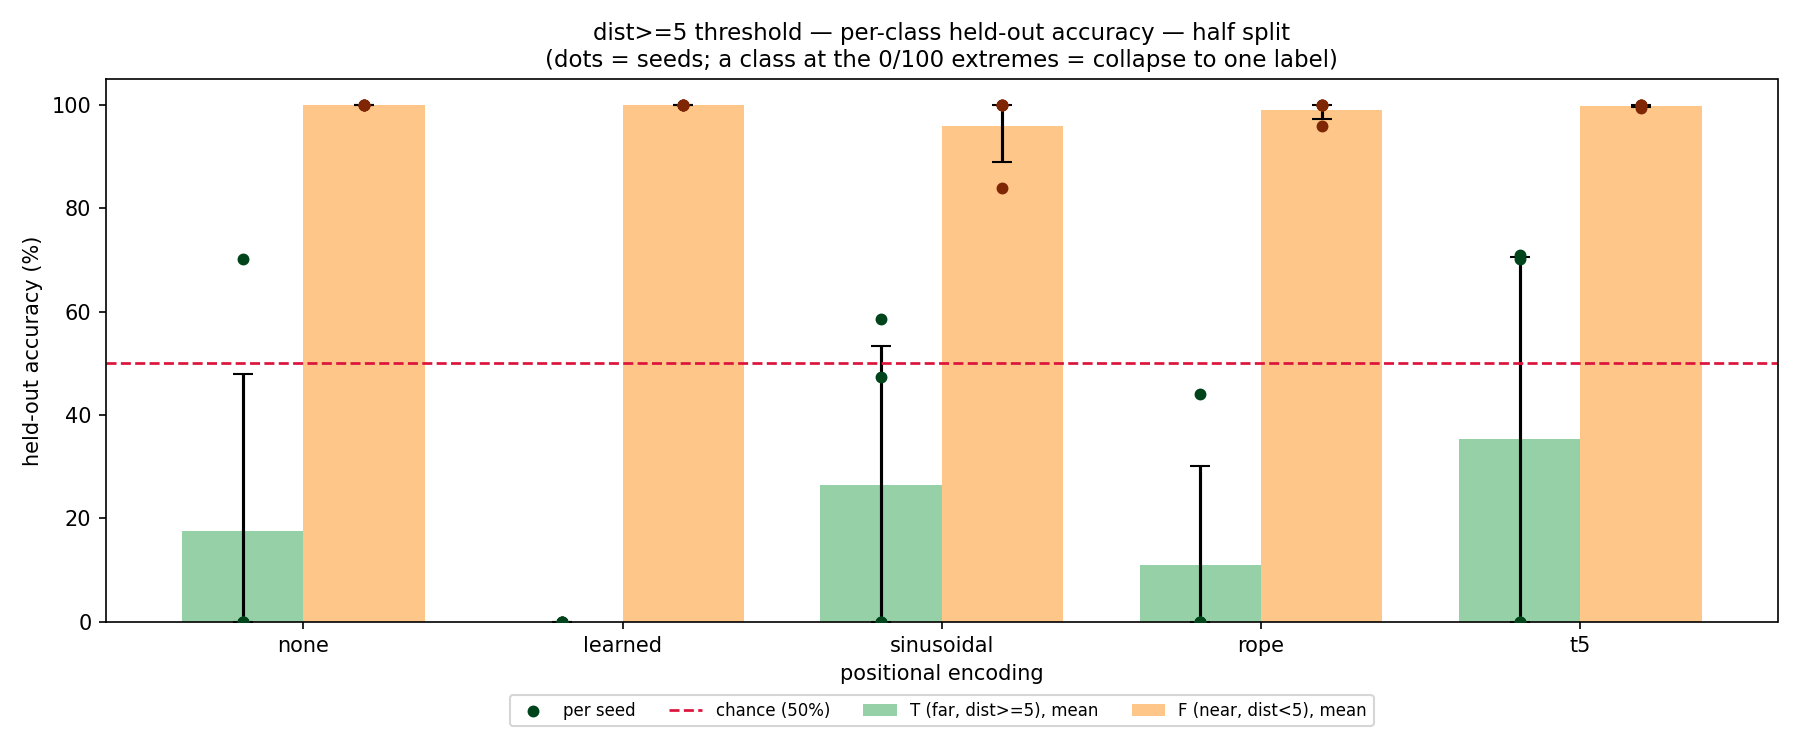
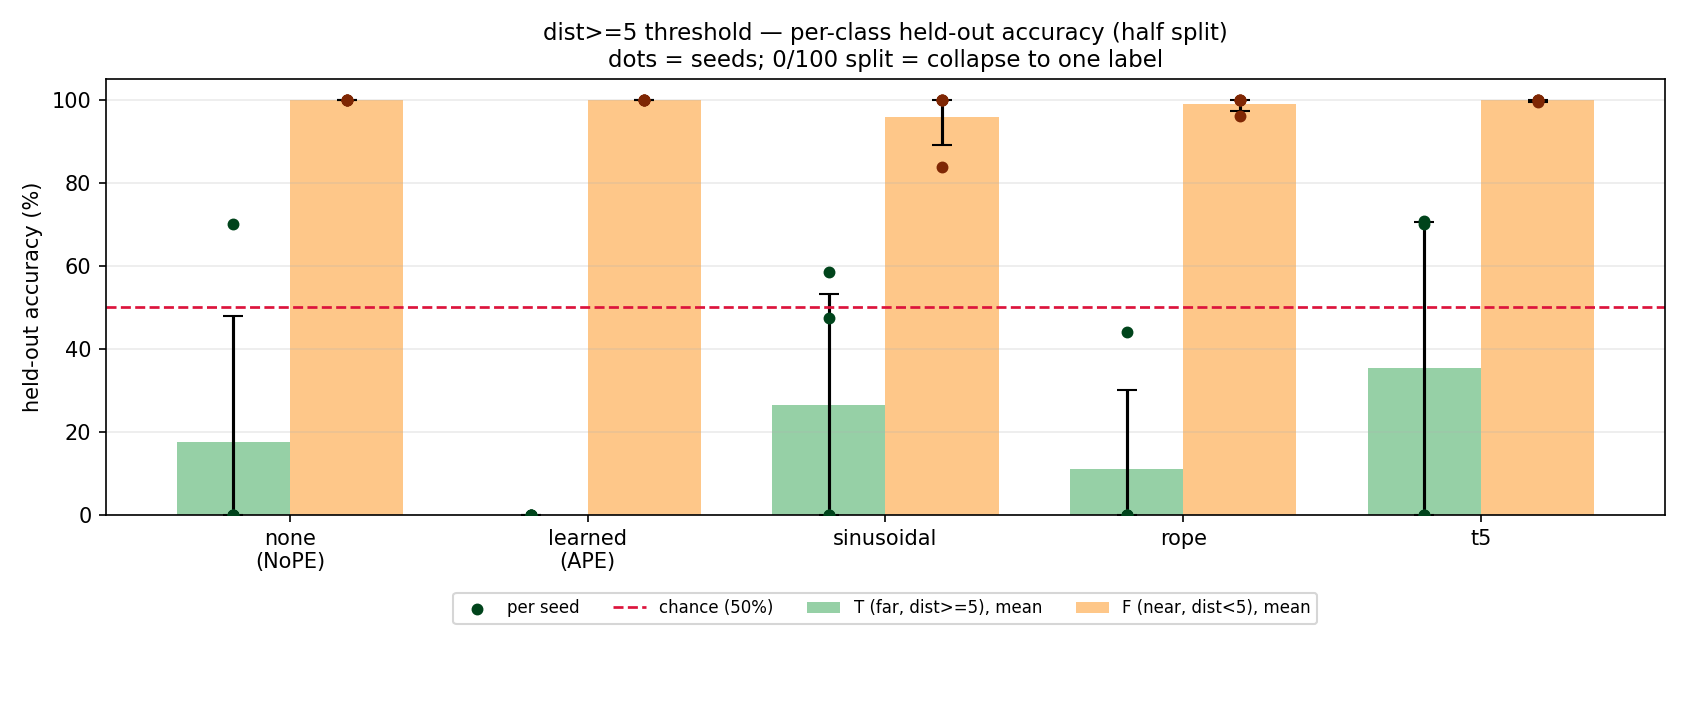
refactor: update plotting logic, standardize "Main takeaway" labels, and improve visualization layouts

diff --git a/generalization-distd/plot.py b/generalization-distd/plot.py
@@ -30,6 +30,7 @@ Usage (from generalization-distd/):
 import os
 import csv
 import argparse
+import math
 from collections import defaultdict
 
 import numpy as np
@@ -43,6 +44,8 @@ METHOD_ORDER = ['none', 'learned', 'sinusoidal', 'rope', 't5']
 # Stable color per method, so the separation-curve lines match across regenerations.
 METHOD_COLOR = {'none': '#7570b3', 'learned': '#d95f02', 'sinusoidal': '#e7298a',
                 'rope': '#1b9e77', 't5': '#66a61e'}
+METHOD_LABEL = {'none': 'none\n(NoPE)', 'learned': 'learned\n(APE)', 'sinusoidal': 'sinusoidal',
+                'rope': 'rope', 't5': 't5'}
 LENGTH = 20
 CHANCE = 50.0
 HALF = LENGTH // 2
@@ -112,25 +115,29 @@ def plot_bars(split, out_dir, methods_filter=None, suffix=''):
     val_mean = [mean_std(grouped[m]['val'])[0] if grouped[m]['val'] else np.nan for m in methods]
     val_std = [mean_std(grouped[m]['val'])[1] if grouped[m]['val'] else 0.0 for m in methods]
 
-    fig, ax = plt.subplots(figsize=(1.8 * len(methods) + 3, 5))
+    fig, ax = plt.subplots(figsize=(1.65 * len(methods) + 3, 4.8))
     ax.bar(x - w / 2, ho_mean, w, yerr=clip_err(ho_mean, ho_std), capsize=5,
            color='#2c7fb8', label='held-out test')
     ax.bar(x + w / 2, val_mean, w, yerr=clip_err(val_mean, val_std), capsize=4,
-           color='#bdbdbd', alpha=0.7, label='in-dist. val')
+           color='#d9d9d9', alpha=0.75, label='in-dist. val')
     ax.axhline(CHANCE, ls='--', color='crimson', lw=1.3, label='chance (50%)')
 
-    for i in range(len(methods)):
+    for i, m in enumerate(methods):
+        vals = grouped[m]['heldout']
+        jitter = np.linspace(-0.055, 0.055, len(vals)) if len(vals) > 1 else [0]
+        ax.scatter([x[i] - w / 2 + j for j in jitter], vals, s=22, color='#08306b',
+                   edgecolor='white', linewidth=0.5, zorder=3)
         ax.text(x[i] - w / 2, min(ho_mean[i] + ho_std[i] + 2.5, 103),
                 f"{ho_mean[i]:.0f}", ha='center', va='bottom', fontsize=9, fontweight='bold')
 
     ax.set_xticks(x)
-    ax.set_xticklabels([f"{m}\n(n={nseeds[m]})" for m in methods])
+    ax.set_xticklabels([f"{METHOD_LABEL.get(m, m)}\n(n={nseeds[m]})" for m in methods])
     ax.set_ylim(0, 105)
     ax.set_ylabel('accuracy (%)')
     ax.set_xlabel('positional encoding')
-    ax.set_title(f'dist>={D} threshold — held-out generalization by PE — {split} split\n'
-                 f'(high val + low held-out = learned the task but did not generalize)',
-                 fontsize=11)
+    ax.set_title(f'dist>={D} threshold — held-out generalization ({split} split)\n'
+                 f'gray = in-distribution val; blue dots = held-out seeds', fontsize=11)
+    ax.grid(axis='y', alpha=0.25)
     ax.legend(loc='lower left')
     fig.tight_layout()
     p1 = os.path.join(out_dir, f'heldout_accuracy_{split}{suffix}.png')
@@ -142,7 +149,7 @@ def plot_bars(split, out_dir, methods_filter=None, suffix=''):
     # If a model collapses to a single label, per-class accuracy exposes it (one class ->
     # ~100%, the other -> ~0%). The collapse direction can be seed-dependent, so overlay
     # each seed as a dot.
-    fig, ax = plt.subplots(figsize=(1.8 * len(methods) + 3, 5))
+    fig, ax = plt.subplots(figsize=(1.65 * len(methods) + 3, 4.8))
     t_vals = [grouped[m]['T'] for m in methods]
     f_vals = [grouped[m]['F'] for m in methods]
     t_mean = [mean_std(v)[0] for v in t_vals]
@@ -158,15 +165,15 @@ def plot_bars(split, out_dir, methods_filter=None, suffix=''):
                    label='per seed' if xi == x[0] else None)
         ax.scatter([xi + w / 2] * len(fv), fv, color='#7f2704', s=22, zorder=3)
     ax.axhline(CHANCE, ls='--', color='crimson', lw=1.3, label='chance (50%)')
-    ax.set_xticks(x); ax.set_xticklabels(methods)
+    ax.set_xticks(x); ax.set_xticklabels([METHOD_LABEL.get(m, m) for m in methods])
     ax.set_ylim(0, 105)
     ax.set_ylabel('held-out accuracy (%)')
-    ax.set_xlabel('positional encoding')
-    ax.set_title(f'dist>={D} threshold — per-class held-out accuracy — {split} split\n'
-                 f'(dots = seeds; a class at the 0/100 extremes = collapse to one label)',
-                 fontsize=11)
-    ax.legend(loc='upper center', bbox_to_anchor=(0.5, -0.12), ncol=4, fontsize=8)
-    fig.tight_layout()
+    ax.set_xlabel('')
+    ax.set_title(f'dist>={D} threshold — per-class held-out accuracy ({split} split)\n'
+                 f'dots = seeds; 0/100 split = collapse to one label', fontsize=11)
+    ax.grid(axis='y', alpha=0.25)
+    ax.legend(loc='upper center', bbox_to_anchor=(0.5, -0.16), ncol=4, fontsize=8)
+    fig.tight_layout(rect=[0, 0.08, 1, 1])
     p2 = os.path.join(out_dir, f'heldout_perclass_{split}{suffix}.png')
     fig.savefig(p2, dpi=150)
     plt.close(fig)
@@ -208,12 +215,15 @@ def plot_per_position(split, out_dir, methods_filter=None, suffix=''):
     if methods_filter:
         methods = [m for m in methods if m in methods_filter]
 
-    fig, axes = plt.subplots(1, len(methods), figsize=(4.8 * len(methods) + 1.6, 5.0),
+    ncols = min(3, len(methods))
+    nrows = math.ceil(len(methods) / ncols)
+    fig, axes = plt.subplots(nrows, ncols, figsize=(4.15 * ncols + 1.0, 4.05 * nrows),
                              squeeze=False, constrained_layout=True)
     cmap = plt.get_cmap('RdYlGn').copy()
     cmap.set_bad('lightgray')
     im = None
-    for ax, m in zip(axes[0], methods):
+    flat_axes = axes.ravel()
+    for ax, m in zip(flat_axes, methods):
         grid = np.full((LENGTH, LENGTH), np.nan)        # rows = X1 (smaller), cols = X2 (larger)
         for x1 in range(LENGTH):
             for x2 in range(LENGTH):
@@ -227,11 +237,13 @@ def plot_per_position(split, out_dir, methods_filter=None, suffix=''):
         ax.set_ylabel('X1 position (smaller)')
         ax.set_xticks(range(0, LENGTH, 2))
         ax.set_yticks(range(0, LENGTH, 2))
-    fig.suptitle(f'dist>={D} threshold — per-position accuracy over the diagnostic sweep — '
-                 f'{split} split\n(cell = accuracy with X at row & X at col; distance = '
-                 f'col - row; BANDS // diagonal = distance, BLOCKS = position shortcut; '
-                 f'gray = X1>=X2, not sampled)', fontsize=12)
-    cbar = fig.colorbar(im, ax=axes[0].tolist(), fraction=0.046, pad=0.03)
+        ax.tick_params(labelsize=8)
+    for ax in flat_axes[len(methods):]:
+        ax.axis('off')
+    fig.suptitle(f'dist>={D} threshold — per-position diagnostic sweep ({split} split, pooled over seeds)\n'
+                 f'cell = accuracy for X at row/col; bands parallel to diagonal suggest distance, '
+                 f'blocks suggest position shortcut', fontsize=12)
+    cbar = fig.colorbar(im, ax=flat_axes[:len(methods)].tolist(), fraction=0.035, pad=0.02)
     cbar.set_label('accuracy')
     p = os.path.join(out_dir, f'per_position_{split}{suffix}.png')
     fig.savefig(p, dpi=150)
@@ -270,31 +282,34 @@ def plot_separation(split, out_dir, methods_filter=None, suffix=''):
     if methods_filter:
         methods = [m for m in methods if m in methods_filter]
 
-    fig, ax = plt.subplots(figsize=(8, 5))
+    fig, ax = plt.subplots(figsize=(8.8, 5.2))
+    all_d = sorted({int(r['distance']) for r in held})
+    ax.axvspan(min(all_d) - 0.5, D - 0.5, color='#e5f5e0', alpha=0.55, zorder=0)
+    ax.axvspan(D - 0.5, max(all_d) + 0.5, color='#fee0d2', alpha=0.45, zorder=0)
+    ax.text((min(all_d) + D - 1) / 2, 96, f'near / F\n(dist < {D})',
+            ha='center', va='top', fontsize=9, color='#238b45',
+            bbox=dict(facecolor='white', edgecolor='none', alpha=0.75, boxstyle='round,pad=0.2'))
+    ax.text((D + max(all_d)) / 2, 96, f'far / T\n(dist >= {D})',
+            ha='center', va='top', fontsize=9, color='#cb181d',
+            bbox=dict(facecolor='white', edgecolor='none', alpha=0.75, boxstyle='round,pad=0.2'))
     for m in methods:
         dists = sorted(d for (mm, d) in acc_cnt if mm == m)
         ys = [100 * acc_sum[(m, d)] / acc_cnt[(m, d)] for d in dists]
-        ns = [acc_cnt[(m, d)] for d in dists]
-        ax.plot(dists, ys, marker='o', color=METHOD_COLOR.get(m), label=m)
-        # annotate the sample count per distance once, faintly, on the first method
-        if m == methods[0]:
-            for d, n in zip(dists, ns):
-                ax.annotate(f'n={n}', (d, -7), ha='center', va='center', fontsize=7,
-                            color='gray', annotation_clip=False)
+        ax.plot(dists, ys, marker='o', lw=2.0, ms=5.5, color=METHOD_COLOR.get(m), label=m)
 
     ax.axhline(CHANCE, ls='--', color='crimson', lw=1.3, label='chance (50%)')
     # threshold line sits between the last F distance (D-1) and the first T distance (D)
     ax.axvline(D - 0.5, ls=':', color='black', lw=1.5, label=f'threshold D={D}')
-    all_d = sorted({int(r['distance']) for r in held})
     ax.set_xticks(all_d)
     ax.set_ylim(0, 105)
-    ax.set_xlabel(f'separation |X2 - X1|  (held-out region: both X in {HALF}..{LENGTH - 1})')
+    ax.set_xlim(min(all_d) - 0.5, max(all_d) + 0.5)
+    ax.set_xlabel(f'separation |X2 - X1|  (held-out block: both X in {HALF}..{LENGTH - 1})')
     ax.set_ylabel('mean accuracy (%)')
-    ax.set_title(f'dist>={D} threshold — accuracy vs separation — {split} split\n'
-                 f'(held-out block of the heatmap collapsed along the diagonal; '
-                 f'dist<{D} -> F near, dist>={D} -> T far)', fontsize=11)
-    ax.legend(loc='lower left', ncol=2, fontsize=9)
-    ax.grid(True, alpha=0.3)
+    ax.set_title(f'dist>={D} threshold — accuracy by separation ({split} split)\n'
+                 f'pooled over seeds; each point is one distance in the held-out block',
+                 fontsize=11)
+    ax.legend(loc='center left', bbox_to_anchor=(1.01, 0.5), fontsize=9)
+    ax.grid(axis='y', alpha=0.3)
     fig.tight_layout()
     p = os.path.join(out_dir, f'accuracy_vs_separation_{split}{suffix}.png')
     fig.savefig(p, dpi=150)

diff --git a/generalization-distd/log/2026-06-26-distd-pe-sweep.md b/generalization-distd/log/2026-06-26-distd-pe-sweep.md
@@ -2,7 +2,7 @@
 
 *2026-06-26 · commit `<pending>` · John Lee*
 
-> **Bottom line.**
+> **Main takeaway.**
 >
 > 1. A micro-transformer (<1M params) **learns dist≥5 perfectly in-distribution** — all 20
 >    runs (5 PE × 4 seeds) reach **100% val**. This **clears the even/odd capacity wall**:

diff --git a/generalization-evenodd/log/2026-06-25-evenodd-pe-sweep.md b/generalization-evenodd/log/2026-06-25-evenodd-pe-sweep.md
@@ -2,7 +2,7 @@
 
 *2026-06-25 · commit `<pending>` · John Lee*
 
-> **Bottom line.**
+> **Main takeaway.**
 >
 > 1. A micro-transformer (<1M params) **cannot learn even/odd distance-parity at all** —
 >    every PE, every seed sits at exactly 50% on *in-distribution* val (loss locked at

diff --git a/generalization-distd/log/_TEMPLATE.md b/generalization-distd/log/_TEMPLATE.md
@@ -16,7 +16,7 @@ Delete these comments when you fill the file in.
 
 *YYYY-MM-DD · commit `<short-sha>` · John Lee*
 
-> **Bottom line.** <the 3-second conclusion in one or two sentences.>
+> **Main takeaway.** <the 3-second conclusion in one or two sentences.>
 
 ### The task
 

diff --git a/generalization-evenodd/log/_TEMPLATE.md b/generalization-evenodd/log/_TEMPLATE.md
@@ -16,7 +16,7 @@ Delete these comments when you fill the file in.
 
 *YYYY-MM-DD · commit `<short-sha>` · John Lee*
 
-> **Bottom line.** <the 3-second conclusion in one or two sentences.>
+> **Main takeaway.** <the 3-second conclusion in one or two sentences.>
 
 ### The task
 
